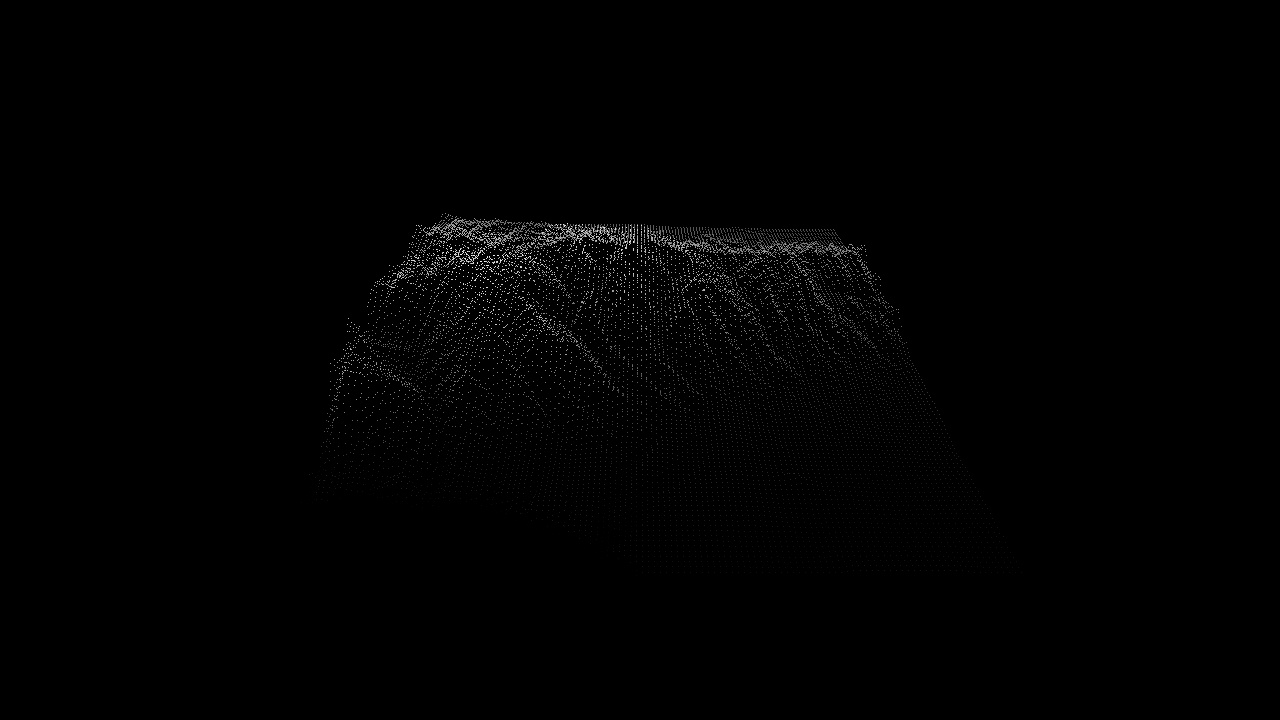
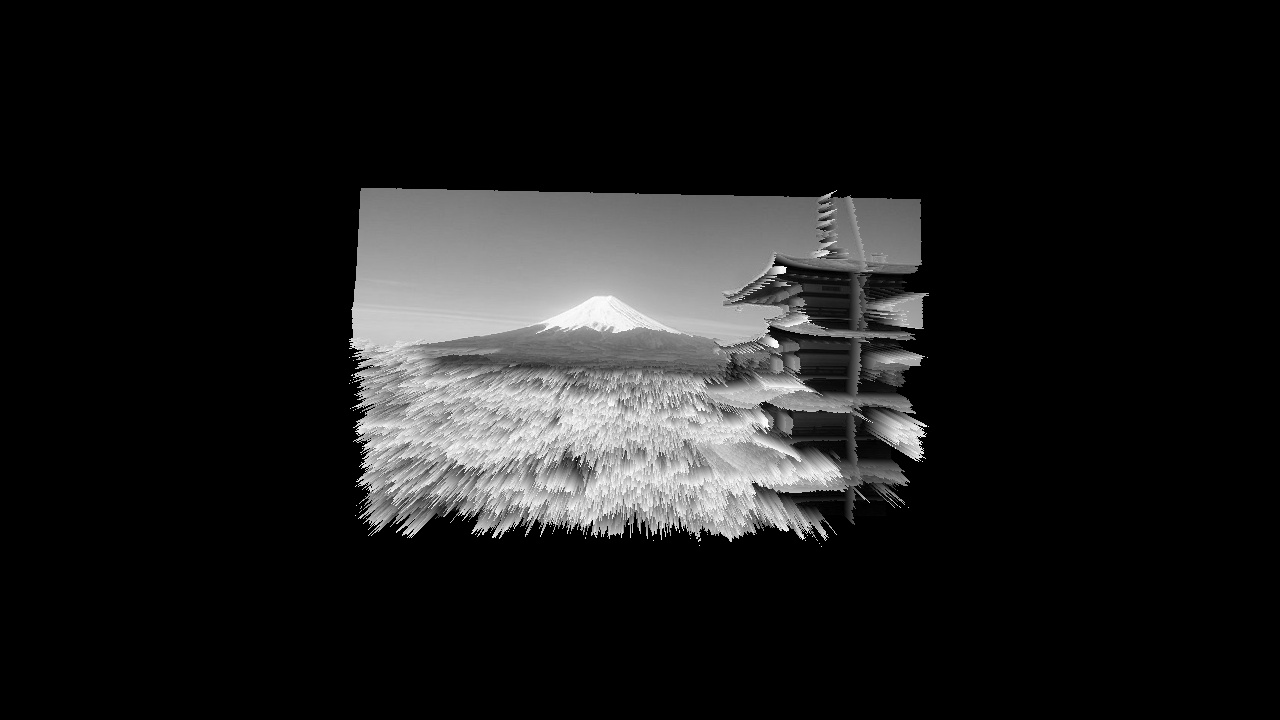
add rgb image

Changed region(s): [[0.25, 0.2444, 0.75, 0.7639]]

diff --git a/hw1/hw1.cpp b/hw1/hw1.cpp
@@ -46,6 +46,9 @@ CONTROL_STATE controlState = ROTATE;
 
 int renderType=1;
 
+// Check if using the texture map
+bool useTexture = false;
+
 bool enableCameraMov=false;
 float speed[2]={0.0,0.0};
 float eyeVec[3];
@@ -301,19 +304,19 @@ void keyboardFunc(unsigned char key, int x, int y)
         break;
 
         case 'w': //Going forward
-            speed[0]=min(speed[0]+1.0,1.0);
+            speed[0]=min(speed[0]+0.01,0.01);
         break;
 
         case 's': //Going backward
-            speed[0]=max(speed[0]-1.0,-1.0);
+            speed[0]=max(speed[0]-0.01,-0.01);
         break;
 
         case 'a': //Going Left
-            speed[1]=max(speed[1]-1.0,-1.0);
+            speed[1]=max(speed[1]-0.01,-0.01);
         break;
 
         case 'd': //Going Right
-            speed[1]=min(speed[1]+1.0,1.0);
+            speed[1]=min(speed[1]+0.01,0.01);
         break;
 
         case 'c': //Set to initial view.
@@ -433,7 +436,7 @@ void displayFunc()
     matrix.Rotate(terrainRotate[0],1.0,0.0,0.0);
     matrix.Rotate(terrainRotate[1],0.0,1.0,0.0);
     matrix.Rotate(terrainRotate[2],0.0,0.0,1.0);
-    matrix.Scale(terrainScale[0],terrainScale[1]*heightmapImage->getWidth()/5.0,terrainScale[2]);
+    matrix.Scale(terrainScale[0],terrainScale[1]/3.0,terrainScale[2]);
 
     // In here, you can do additional modeling on the object, such as performing translations, rotations and scales.
     // ...
@@ -490,26 +493,45 @@ void displayFunc()
 }
 
 void calcPosColors(float* positions,float* colors){
-
-    //Calculating points positions, the height is from -25.0 to 25.0
-    for (int i = 0; i < heightmapImage->getHeight(); i++) {
-        for (int j = 0,pos=i*heightmapImage->getWidth()*3; j < heightmapImage->getWidth(); j++,pos+=3) {
-            positions[pos] = i-1.0*(heightmapImage->getHeight() - 1.0)/2.0;
-            positions[pos + 1] = 1.0*heightmapImage->getPixel(i,j,0)/255.0f;
-            positions[pos + 2] = -j+1.0*(heightmapImage->getWidth() - 1.0)/2.0;
-            // positions[pos] = i/(heightmapImage->getHeight() - 1.0);
-            // positions[pos + 1] = 1.0*heightmapImage->getPixel(i,j,0)/255.0f;
-            // positions[pos + 2] = -j/(heightmapImage->getWidth() - 1.0);
+    // maximum of height and width, for normalizatoin
+    float maxHW = max(heightmapImage->getHeight() - 1.0, heightmapImage->getWidth() - 1.0);
+    cout << heightmapImage->getHeight() << " " << heightmapImage->getWidth() << "\n";
+    if (heightmapImage->getBytesPerPixel() == 1) {
+        //Calculating points positions, the height range is [0.0,1.0] for scale\exponent | x range is [-1.0,1.0] | z range is [-1.0,1.0]
+        for (int i = 0; i < heightmapImage->getHeight(); i++) {
+            for (int j = 0, pos = i * heightmapImage->getWidth() * 3; j < heightmapImage->getWidth(); j++, pos += 3) {
+                positions[pos] = (2.0 * i - (heightmapImage->getHeight() - 1.0)) / maxHW;
+                positions[pos + 1] = 1.0 * heightmapImage->getPixel(i, j, 0) / 255.0f;
+                positions[pos + 2] = (-j * 2.0 + (heightmapImage->getWidth() - 1.0)) / maxHW;
+            }
         }
     }
-
-    //Calculating points colors.
-    for (int i = 0; i < heightmapImage->getHeight(); i++) {
-        for (int j = 0, pos = i * heightmapImage->getWidth()*4; j < heightmapImage->getWidth(); j++, pos += 4) {
-            colors[pos] = 1.0*heightmapImage->getPixel(i,j,0)/255.0;
-            colors[pos + 1] = 1.0*heightmapImage->getPixel(i,j,0)/255.0;
-            colors[pos + 2] = 1.0*heightmapImage->getPixel(i,j,0)/255.0;
-            colors[pos + 3] = 1.0;
+    else if(heightmapImage->getBytesPerPixel()==3){
+        //Calculating points positions, the height range is [0.0,1.0] for scale\exponent | x range is [-1.0,1.0] | z range is [-1.0,1.0]
+        for (int i = 0; i < heightmapImage->getHeight(); i++) {
+            for (int j = 0, pos = i * heightmapImage->getWidth() * 3; j < heightmapImage->getWidth(); j++, pos += 3) {
+                positions[pos] = (2.0 * i - (heightmapImage->getHeight() - 1.0)) / maxHW;
+                // Transform the RGB to Grayscale by using 0.299 R + 0.587 G + 0.114 B
+                //cout << pos << " ";
+                positions[pos + 1] = (  0.299 * heightmapImage->getPixel(i, j, 0)+
+                                        0.587 * heightmapImage->getPixel(i, j, 1)+
+                                        0.114 * heightmapImage->getPixel(i, j, 2))/ 255.0f;
+                positions[pos + 2] = (-j * 2.0 + (heightmapImage->getWidth() - 1.0)) / maxHW;
+            }
+        }
+    }
+    if (useTexture) {
+    }
+    else {
+        //Calculating points colors.
+        for (int i = 0; i < heightmapImage->getHeight(); i++) {
+            for (int j = 0, pos = i * heightmapImage->getWidth() * 4; j < heightmapImage->getWidth(); j++, pos += 4) {
+                //colors[pos] = heightmapImage->getPixel(j, i, 0) / 255.0f;
+                //colors[pos+1] = heightmapImage->getPixel(j, i, 1) / 255.0f;
+                //colors[pos+2] = heightmapImage->getPixel(j, i, 2) / 255.0f;
+                colors[pos] = colors[pos + 1] = colors[pos + 2] = 1.0 * positions[pos / 4 * 3 + 1] ;
+                colors[pos + 3] = 1.0;
+            }
         }
     }
 }
@@ -521,7 +543,7 @@ void initPoint(float* positions,float* colors){
     //The elements for point is just 0,1,2,...,numVerticesPoint-1.
     for (int i = 0; i < heightmapImage->getHeight(); i++) {
         for (int j = 0; j < heightmapImage->getWidth(); j++) {
-            int pos=i*heightmapImage->getHeight()+j;
+            int pos=i*heightmapImage->getWidth()+j;
             elements[pos]=pos;
         }
     }
@@ -739,6 +761,11 @@ void initScene(int argc, char *argv[])
         cout << "Error reading image " << argv[1] << "." << endl;
         exit(EXIT_FAILURE);
     }
+    // Check the heightmapImage has 3 channels or 1 channel otherwise throws error.
+    if (heightmapImage->getBytesPerPixel() != 1 && heightmapImage->getBytesPerPixel() != 3) {
+        cout << "Image channel need to be 1 or 3 " << argv[1] << "." << endl;
+        exit(EXIT_FAILURE);
+    }
 
     // Set the background color.
     glClearColor(0.0f, 0.0f, 0.0f, 1.0f); // Black color.
@@ -792,8 +819,8 @@ void initScene(int argc, char *argv[])
     // upVec[0]=0.0,upVec[1]=1.0,upVec[2]=0.0;
 
     // Initialize variables in LookAt function
-    eyeVec[0]=0.0,eyeVec[1]=0.7* heightmapImage->getWidth(),eyeVec[2]=1.0 * heightmapImage->getWidth();
-    focusVec[0]=0.0,focusVec[1]=-0.7* heightmapImage->getWidth(),focusVec[2]=-1.0 * heightmapImage->getWidth();
+    eyeVec[0]=0.0,eyeVec[1]=1.4,eyeVec[2]=2.0;
+    focusVec[0]=0.0,focusVec[1]=-0.7,focusVec[2]=-1.0;
     upVec[0]=0.0,upVec[1]=1.0,upVec[2]=0.0;
 
     // Normalize the focusVec

diff --git a/openGLHelper/vao.cpp b/openGLHelper/vao.cpp
@@ -38,3 +38,4 @@ void VAO::ConnectPipelineProgramAndVBOAndShaderVariable(PipelineProgram * pipeli
     // The shader variable receives its data from the currently bound VBO (i.e., vbo), starting from offset 0 in the VBO. 
     // The number of float entries per vertex in the VBO is read from the VBO via "GetNumFloatsPerVertex".
 }
+
